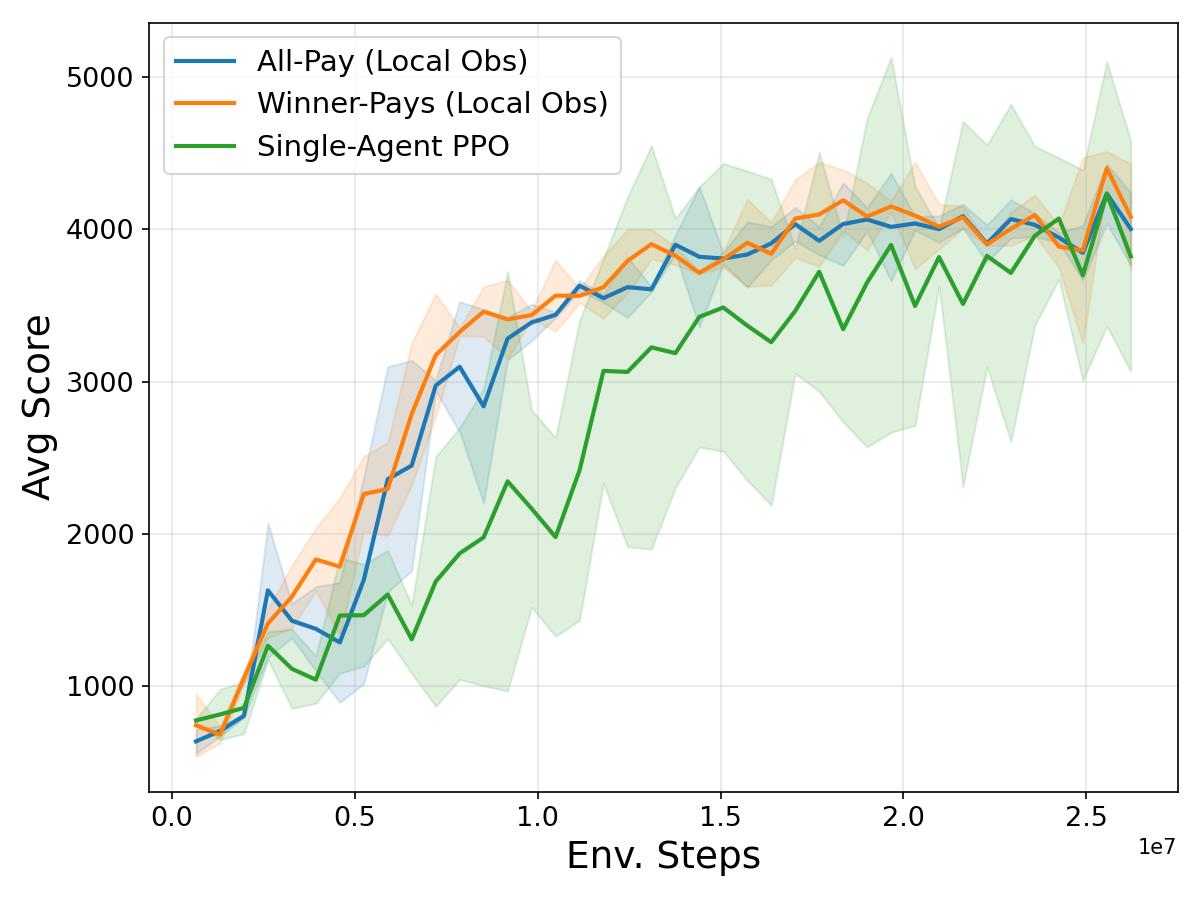
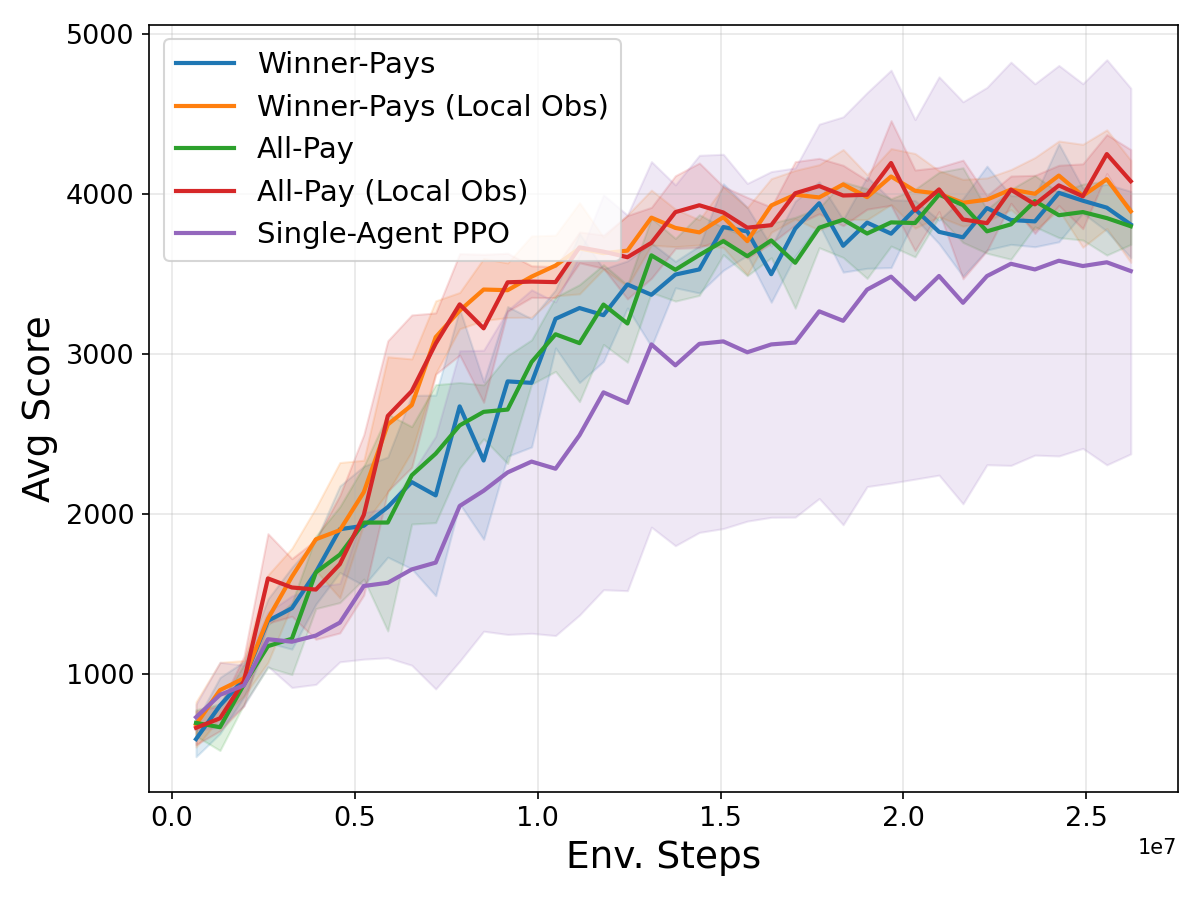
final curves

diff --git a/02_Neurips26/tables/performance_table.tex b/02_Neurips26/tables/performance_table.tex
@@ -1,23 +1,23 @@
 \begin{table}
-  \caption{Performance (mean and standard deviation across 10 seeds) averaged over each seed's last 5 evaluation iterations, over 50 PPO iterations. Cat Feeder values measure performance as the difference between number of feeding requests completed and those that expired. Atari Assault and Air-raid values are the game score.}
+  \caption{Performance (mean and mean standard deviation across 10 seeds) averaged over each seed's last 5 evaluation iterations. Cat Feeder measure performance as the difference between number of feeding requests completed and those that expired. Atari Assault and Air-raid values are the game scores.}
   \label{tab:all_methods_comp}
   \centering
-  \begin{tabular}{lll}
+  \begin{tabular}{llll}
     \toprule
-    {\bf Method} & {\bf Cat Feeder} & {\bf Atari Assault} \\
+    {\bf Method} & {\bf Cat Feeder} & {\bf Atari Assault} & {\bf Atari AirRaid} \\
     \midrule
-    Winner-Pays & $49.44$ {\small\textcolor{gray}{$(4.19)$}} & $556.05$ {\small\textcolor{gray}{$(29.23)$}} \\
-    \textcolor{gray}{\itshape\hspace{1em}w. Local Obs} & \textcolor{gray}{\itshape $63.76$ {\small$(3.85)$}} & \textcolor{gray}{\itshape $557.55$ {\small$(36.92)$}} \\
-    \textcolor{gray}{\itshape\hspace{1em}w. No Attn. Pool.} & \textcolor{gray}{\itshape $51.72$ {\small$(3.97)$}} & \textcolor{gray}{\itshape ---} \\
-    All-Pay & $\textbf{72.52}$ {\small\textcolor{gray}{$(4.23)$}} & $\textbf{576.64}$ {\small\textcolor{gray}{$(43.19)$}} \\
-    \textcolor{gray}{\itshape\hspace{1em}w. Local Obs} & \textcolor{gray}{\itshape $64.96$ {\small$(3.82)$}} & \textcolor{gray}{\itshape $564.36$ {\small$(20.68)$}} \\
-    \textcolor{gray}{\itshape\hspace{1em}w. No Attn. Pool.} & \textcolor{gray}{\itshape $37.72$ {\small$(50.32)$}} & \textcolor{gray}{\itshape ---} \\
+    Winner-Pays & $49.44$ {\small\textcolor{gray}{$(4.19)$}} & $556.05$ {\small\textcolor{gray}{$(29.23)$}} & $3902.55$ {\small\textcolor{gray}{$(90.44)$}} \\
+    \textcolor{gray}{\itshape\hspace{1em}w. Local Obs} & \textcolor{gray}{\itshape $63.76$ {\small$(3.85)$}} & \textcolor{gray}{\itshape $557.55$ {\small$(36.92)$}} & \textcolor{gray}{\itshape $4016.79$ {\small$(150.21)$}} \\
+    \textcolor{gray}{\itshape\hspace{1em}w. No Attn. Pool.} & \textcolor{gray}{\itshape $51.72$ {\small$(3.97)$}} & \textcolor{gray}{\itshape ---} & \textcolor{gray}{\itshape ---} \\
+    All-Pay & $\textbf{72.52}$ {\small\textcolor{gray}{$(4.23)$}} & $\textbf{576.64}$ {\small\textcolor{gray}{$(43.19)$}} & $3870.45$ {\small\textcolor{gray}{$(76.72)$}} \\
+    \textcolor{gray}{\itshape\hspace{1em}w. Local Obs} & \textcolor{gray}{\itshape $64.96$ {\small$(3.82)$}} & \textcolor{gray}{\itshape $564.36$ {\small$(20.68)$}} & { $\textbf{4059.75}$ {\small$(55.50)$}} \\
+    \textcolor{gray}{\itshape\hspace{1em}w. No Attn. Pool.} & \textcolor{gray}{\itshape $37.72$ {\small$(50.32)$}} & \textcolor{gray}{\itshape ---} & \textcolor{gray}{\itshape ---} \\
     \midrule
-    DWN & $-10.27$ {\small\textcolor{gray}{$(2.38)$}} & $310.80$ {\small\textcolor{gray}{$(159.54)$}} \\
-    Single-Policy PPO & $-51.59$ {\small\textcolor{gray}{$(5.33)$}} & $\textbf{358.60}$ {\small\textcolor{gray}{$(25.99)$}} \\
-    \textcolor{gray}{\itshape\hspace{1em}w. No Reward Shaping} & \textcolor{gray}{\itshape ---} & \textcolor{gray}{\itshape ---} \\
-    \textcolor{gray}{\itshape\hspace{1em}w. Nearest Shaping} & \textcolor{gray}{\itshape $-14.15$ {\small$(41.88)$}} & \textcolor{gray}{\itshape ---} \\
-    \textcolor{gray}{\itshape\hspace{1em}w. Expiry Shaping} & \textcolor{gray}{\itshape $-47.62$ {\small$(1.52)$}} & \textcolor{gray}{\itshape ---} \\
+    DWN & $\textbf{-10.27}$ {\small\textcolor{gray}{$(2.38)$}} & $310.80$ {\small\textcolor{gray}{$(159.54)$}} & $2438.38$ {\small\textcolor{gray}{$(625.97)$}} \\
+    Single-Policy PPO & $-51.59$ {\small\textcolor{gray}{$(5.33)$}} & $\textbf{358.60}$ {\small\textcolor{gray}{$(25.99)$}} & $\textbf{3549.33}$ {\small\textcolor{gray}{$(1170.14)$}} \\
+    \textcolor{gray}{\itshape\hspace{1em}w. No Reward Shaping} & \textcolor{gray}{\itshape ---} & \textcolor{gray}{\itshape ---} & \textcolor{gray}{\itshape ---} \\
+    \textcolor{gray}{\itshape\hspace{1em}w. Nearest Shaping} & \textcolor{gray}{\itshape $-14.15$ {\small$(41.88)$}} & \textcolor{gray}{\itshape ---} & \textcolor{gray}{\itshape ---} \\
+    \textcolor{gray}{\itshape\hspace{1em}w. Expiry Shaping} & \textcolor{gray}{\itshape $-47.62$ {\small$(1.52)$}} & \textcolor{gray}{\itshape ---} & \textcolor{gray}{\itshape ---} \\
     \bottomrule
   \end{tabular}
 \end{table}

diff --git a/02_Neurips26/tables/airraid_results_table.tex b/02_Neurips26/tables/airraid_results_table.tex
@@ -1,0 +1,17 @@
+\begin{table}
+  \centering
+  \caption{AirRaid score (mean $\pm$ std across completed seeds) averaged over each seed's last 5 evaluation iterations.}
+  \begin{tabular}{ll}
+    \hline
+    {\bf Algorithm} & {\bf Score} \\
+    \hline
+    Winner-Pays & $3902.55$ {\small\textcolor{gray}{$(\pm 90.44)$}} \\
+    Winner-Pays (Local Obs) & $4016.79$ {\small\textcolor{gray}{$(\pm 150.21)$}} \\
+    All-Pay & $3870.45$ {\small\textcolor{gray}{$(\pm 76.72)$}} \\
+    All-Pay (Local Obs) & $4059.75$ {\small\textcolor{gray}{$(\pm 55.50)$}} \\
+    DWN & $2438.38$ {\small\textcolor{gray}{$(\pm 625.97)$}} \\
+    Single-Agent PPO & $3549.33$ {\small\textcolor{gray}{$(\pm 1170.14)$}} \\
+    \hline
+  \end{tabular}
+  \label{tab:airraid_methods}
+\end{table}

diff --git a/02_Neurips26/implementation-eval.tex b/02_Neurips26/implementation-eval.tex
@@ -66,7 +66,7 @@ We use the same action window \(\tau\) for DWN.
         % \caption{Atari Air-Raid: Learning curves}
         % \label{fig:airraid-learning-curves}
     \end{subfigure}
-    \caption{Learning curves for different methods on Cat Feeder (left), Atari Assault (center), and Atari Air-Raid (right). We plot mean over 10 seeds at each evaluation iteration and the shaded region is \(\pm\) standard deviation.}
+    \caption{Learning curves for different methods on Cat Feeder (left), Atari Assault (center), and Atari Air-Raid (right). We plot mean over 10 seeds at each evaluation iteration and the shaded region is \(\pm\) mean standard deviation across seeds.}
     \label{fig:learning-curves}
 \end{figure}
 
